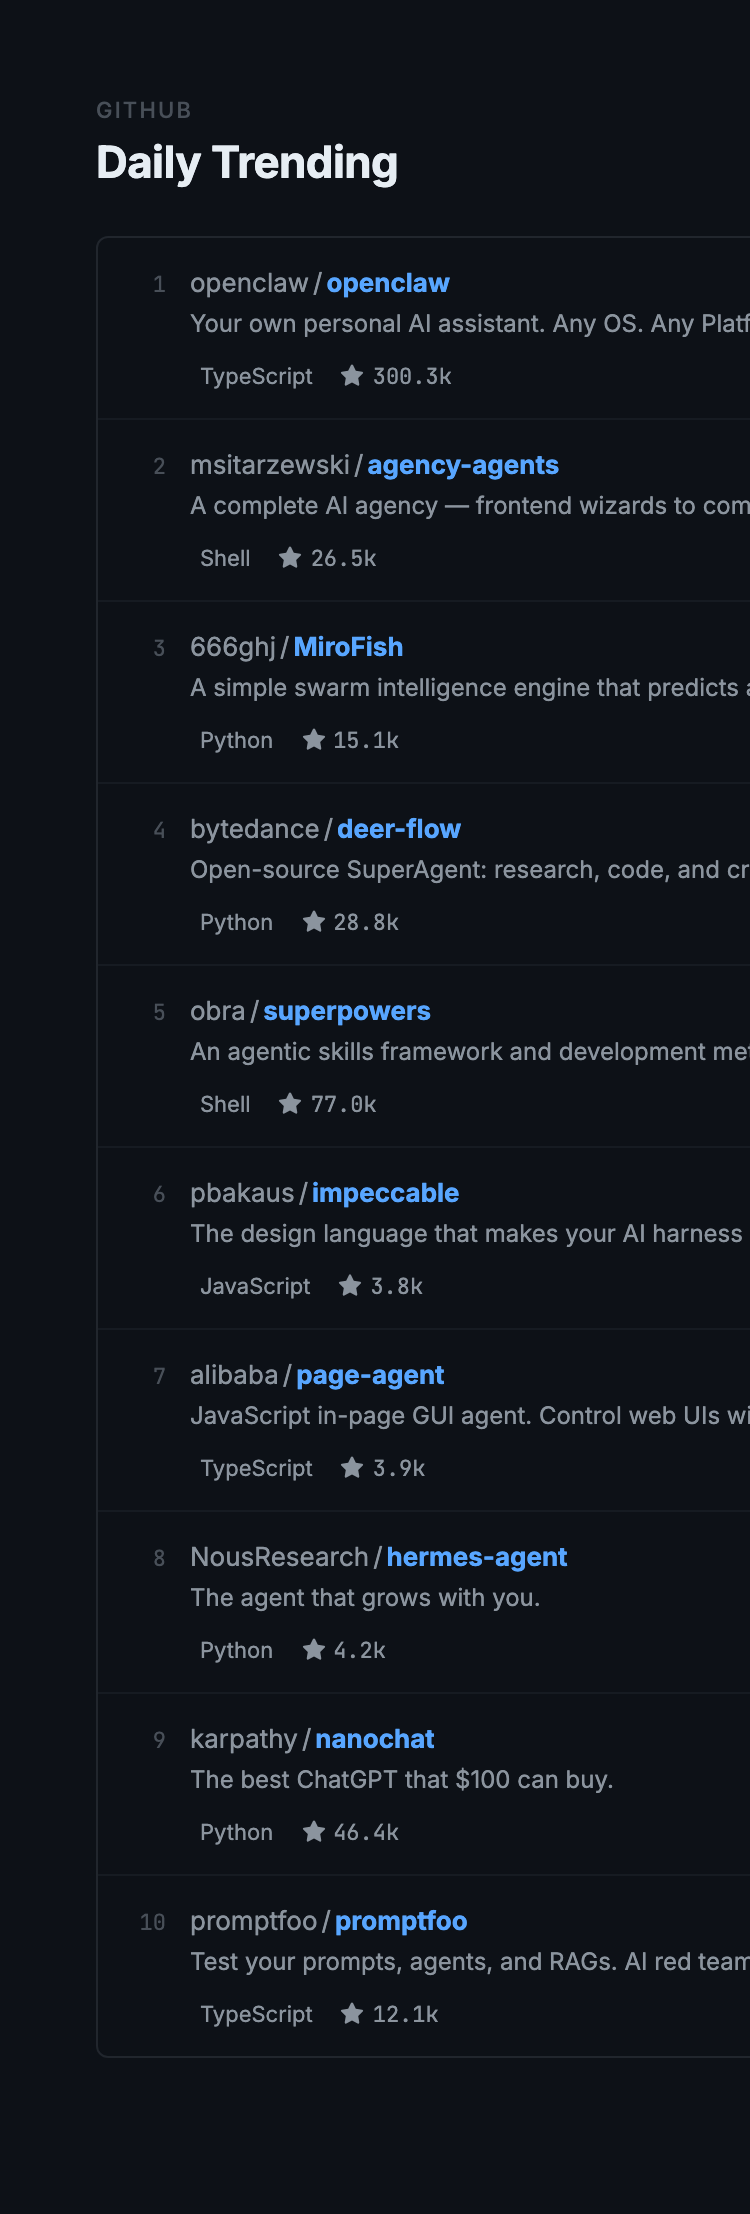
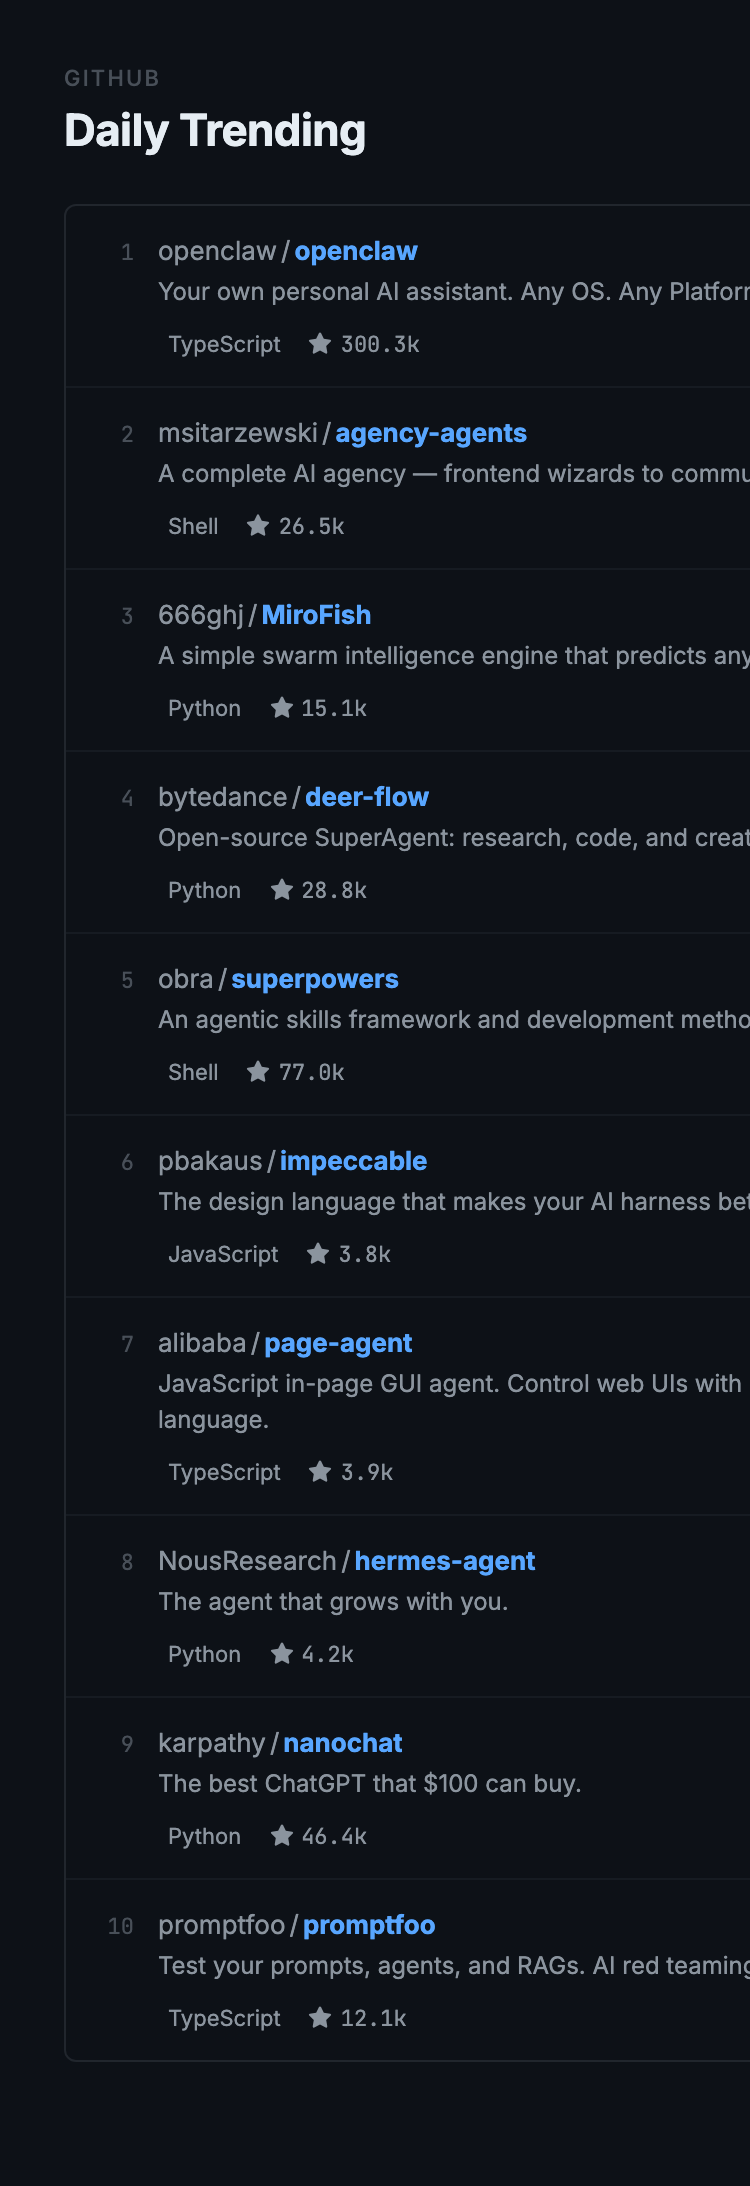
feat: add AI Daily Digest template, resize github-trending, refresh Demo layout

diff --git a/templates/daily-digest.html b/templates/daily-digest.html
@@ -1,0 +1,105 @@
+<!DOCTYPE html>
+<html lang="en">
+<head>
+  <meta charset="UTF-8">
+  <meta name="viewport" content="width=device-width, initial-scale=1.0">
+  <title>AI Daily Digest</title>
+  <link rel="preconnect" href="https://fonts.googleapis.com">
+  <link rel="preconnect" href="https://fonts.gstatic.com" crossorigin>
+  <link href="https://fonts.googleapis.com/css2?family=Inter:ital,wght@0,300;0,400;0,500;0,600;0,700;1,400&display=swap" rel="stylesheet">
+  <script defer src="https://cdn.jsdelivr.net/npm/alpinejs@3.x.x/dist/cdn.min.js"></script>
+  <style>
+    * { font-family: 'Inter', system-ui, sans-serif; box-sizing: border-box; margin: 0; padding: 0; }
+    body { margin: 0; padding: 0; background: transparent; }
+    #app { display: inline-block; }
+  </style>
+</head>
+<body>
+
+<div x-data="{
+  date: 'April 3, 2026',
+  category: 'AI & Technology',
+  headline: 'Agents Are Taking Over the Dev Stack',
+  summary: 'A wave of autonomous coding agents shipped this week — from cloud IDEs to terminal-native tools — signaling a fundamental shift in how software gets written.',
+  insights: [
+    { color: '#58a6ff', label: 'Trend',   text: 'Agent-native IDEs now outpace plugin-based tools in GitHub star velocity for the third consecutive month.' },
+    { color: '#3fb950', label: 'Signal',  text: 'Model context windows hit 2M tokens; retrieval-augmented workflows are quietly becoming obsolete.' },
+    { color: '#d2a8ff', label: 'Opinion', text: 'The real moat is not the model — it is the feedback loop. Whoever closes it fastest wins.' }
+  ],
+  tags: ['OpenAI', 'Claude', 'Cursor', 'Open Source'],
+  readMin: 4
+}" id="app">
+
+  <div style="width:520px; background:linear-gradient(160deg,#0d1117 0%,#0d1117 100%); border:1px solid #21262d; border-radius:16px; overflow:hidden; position:relative;">
+
+    <!-- Top accent bar -->
+    <div style="height:3px; background:linear-gradient(90deg,#58a6ff 0%,#3fb950 50%,#d2a8ff 100%);"></div>
+
+    <div style="padding:28px 28px 24px;">
+
+      <!-- Header row -->
+      <div style="display:flex; align-items:center; justify-content:space-between; margin-bottom:20px;">
+        <div style="display:flex; align-items:center; gap:8px;">
+          <!-- AI spark icon -->
+          <svg width="16" height="16" viewBox="0 0 24 24" fill="none" stroke="#58a6ff" stroke-width="1.8" stroke-linecap="round" stroke-linejoin="round">
+            <path d="M12 2L9.5 9.5 2 12l7.5 2.5L12 22l2.5-7.5L22 12l-7.5-2.5z"/>
+          </svg>
+          <span style="font-size:11px; font-weight:700; color:#58a6ff; letter-spacing:0.12em; text-transform:uppercase;">AI Daily Digest</span>
+        </div>
+        <div style="display:flex; align-items:center; gap:10px;">
+          <span style="font-size:11px; color:#484f58;" x-text="readMin + ' min read'"></span>
+          <span style="font-size:11px; color:#484f58;" x-text="date"></span>
+        </div>
+      </div>
+
+      <!-- Category chip -->
+      <div style="display:inline-flex; align-items:center; background:rgba(88,166,255,0.1); border:1px solid rgba(88,166,255,0.2); border-radius:99px; padding:3px 10px; margin-bottom:14px;">
+        <span style="font-size:11px; font-weight:500; color:#58a6ff;" x-text="category"></span>
+      </div>
+
+      <!-- Headline -->
+      <div style="font-size:22px; font-weight:700; color:#e6edf3; line-height:1.3; letter-spacing:-0.3px; margin-bottom:12px;" x-text="headline"></div>
+
+      <!-- Summary -->
+      <div style="font-size:13px; color:#8b949e; line-height:1.7; margin-bottom:24px;" x-text="summary"></div>
+
+      <!-- Divider -->
+      <div style="height:1px; background:#21262d; margin-bottom:20px;"></div>
+
+      <!-- Key insights -->
+      <div style="font-size:11px; font-weight:600; color:#484f58; letter-spacing:0.1em; text-transform:uppercase; margin-bottom:14px;">Key Insights</div>
+      <div style="display:flex; flex-direction:column; gap:12px; margin-bottom:24px;">
+        <template x-for="(item, i) in insights" :key="i">
+          <div style="display:flex; gap:12px; align-items:flex-start;">
+            <!-- Dot + label -->
+            <div style="display:flex; align-items:center; gap:6px; flex-shrink:0; width:72px; padding-top:1px;">
+              <div style="width:6px; height:6px; border-radius:50%; flex-shrink:0;" :style="'background:' + item.color"></div>
+              <span style="font-size:11px; font-weight:600; letter-spacing:0.04em;" :style="'color:' + item.color" x-text="item.label"></span>
+            </div>
+            <div style="font-size:13px; color:#c9d1d9; line-height:1.6;" x-text="item.text"></div>
+          </div>
+        </template>
+      </div>
+
+      <!-- Footer: tags + generated badge -->
+      <div style="display:flex; align-items:center; justify-content:space-between; flex-wrap:wrap; gap:8px;">
+        <div style="display:flex; gap:6px; flex-wrap:wrap;">
+          <template x-for="tag in tags" :key="tag">
+            <span style="font-size:11px; font-weight:500; color:#8b949e; background:rgba(255,255,255,0.04); border:1px solid #30363d; border-radius:6px; padding:3px 8px;" x-text="tag"></span>
+          </template>
+        </div>
+        <div style="display:flex; align-items:center; gap:5px; opacity:0.5;">
+          <svg width="11" height="11" viewBox="0 0 24 24" fill="none" stroke="#8b949e" stroke-width="2" stroke-linecap="round" stroke-linejoin="round">
+            <path d="M12 2L9.5 9.5 2 12l7.5 2.5L12 22l2.5-7.5L22 12l-7.5-2.5z"/>
+          </svg>
+          <span style="font-size:10px; color:#8b949e; letter-spacing:0.06em;">GENERATED BY AI</span>
+        </div>
+      </div>
+
+    </div>
+  </div>
+
+</div>
+
+</body>
+</html>

diff --git a/templates/github-trending.html b/templates/github-trending.html
@@ -34,7 +34,7 @@
   ]
 }" id="app">
 
-  <div style="width:800px; background:#0d1117; padding:48px; box-sizing:border-box;">
+  <div style="width:520px; background:#0d1117; padding:32px; box-sizing:border-box;">
 
     <!-- Header -->
     <div style="margin-bottom:24px; display:flex; align-items:flex-end; justify-content:space-between;">

diff --git a/README.zh-CN.md b/README.zh-CN.md
@@ -32,15 +32,16 @@ AI agent 被困在纯文本里。`pixelmsg` 打破这一限制 —— 给 agent 
 
 <table>
 <tr>
-<td align="center"><img src="screenshots/zh/weather-default-mobile.png" width="200" /><br /><sub>天气卡片</sub></td>
-<td align="center"><img src="screenshots/zh/github-trending-default-mobile.png" width="200" /><br /><sub>GitHub 热榜</sub></td>
-<td align="center"><img src="screenshots/zh/todolist-default-mobile.png" width="200" /><br /><sub>待办清单</sub></td>
+<td align="center"><img src="screenshots/zh/weather-default-mobile.png" width="180" /><br /><sub>天气卡片</sub></td>
+<td align="center"><img src="screenshots/zh/todolist-default-mobile.png" width="180" /><br /><sub>待办清单</sub></td>
+<td align="center"><img src="screenshots/zh/daily-digest-default-560w.png" width="280" /><br /><sub>AI 每日简报</sub></td>
 </tr>
 </table>
 
 <table>
 <tr>
-<td align="center"><img src="screenshots/zh/github-stats-default-desktop.png" width="640" /><br /><sub>GitHub 统计 — 桌面端</sub></td>
+<td align="center"><img src="screenshots/zh/github-trending-default-560w.png" width="300" /><br /><sub>GitHub 热榜</sub></td>
+<td align="center"><img src="screenshots/zh/github-stats-default-desktop.png" width="460" /><br /><sub>GitHub 统计</sub></td>
 </tr>
 </table>
 
@@ -51,7 +52,7 @@ AI agent 被困在纯文本里。`pixelmsg` 打破这一限制 —— 给 agent 
 - **精准裁切** — 只截取 `#app` 元素，不截整页
 - **多种视口** — 移动端（375px）、平板（768px）、桌面端（1440px），或自定义
 - **Agent 就绪** — `render.sh` 输出绝对路径；兼容平台自动将其作为图片消息发送
-- **5 个生产级模板** — 天气、GitHub 热榜、GitHub 统计、待办清单等
+- **6 个生产级模板** — 天气、AI 每日简报、GitHub 热榜、GitHub 统计、待办清单等
 - **可组合** — 通过 URL 参数注入动态数据，无需修改 HTML
 
 ## 快速开始
@@ -79,6 +80,7 @@ npx playwright install chromium
 | `templates/github-trending.html` | GitHub 热榜 Top 10，含 star 数和语言 | 移动端 |
 | `templates/github-stats.html` | GitHub 用户主页 — 贡献、连续天数、置顶仓库 | 桌面端 |
 | `templates/todolist.html` | 分类待办清单，带进度概览 | 移动端 |
+| `templates/daily-digest.html` | AI 生成的每日简报 — 标题、洞察、标签 | 移动端 |
 
 所有模板均使用真实演示数据，无需构建即可渲染。用浏览器打开任意 `.html` 文件即可预览。
 

diff --git a/README.md b/README.md
@@ -32,15 +32,16 @@ Plain text works. Images stick.
 
 <table>
 <tr>
-<td align="center"><img src="screenshots/weather-default-mobile.png" width="200" /><br /><sub>Weather Card</sub></td>
-<td align="center"><img src="screenshots/github-trending-default-mobile.png" width="200" /><br /><sub>GitHub Trending</sub></td>
-<td align="center"><img src="screenshots/todolist-default-mobile.png" width="200" /><br /><sub>Todo List</sub></td>
+<td align="center"><img src="screenshots/weather-default-mobile.png" width="180" /><br /><sub>Weather Card</sub></td>
+<td align="center"><img src="screenshots/todolist-default-mobile.png" width="180" /><br /><sub>Todo List</sub></td>
+<td align="center"><img src="screenshots/daily-digest-default-560w.png" width="280" /><br /><sub>AI Daily Digest</sub></td>
 </tr>
 </table>
 
 <table>
 <tr>
-<td align="center"><img src="screenshots/github-stats-default-desktop.png" width="640" /><br /><sub>GitHub Stats — Desktop</sub></td>
+<td align="center"><img src="screenshots/github-trending-default-560w.png" width="300" /><br /><sub>GitHub Trending</sub></td>
+<td align="center"><img src="screenshots/github-stats-default-desktop.png" width="460" /><br /><sub>GitHub Stats</sub></td>
 </tr>
 </table>
 
@@ -51,7 +52,7 @@ Plain text works. Images stick.
 - **Precise cropping** — screenshots the `#app` element, not the whole page
 - **Multiple viewports** — mobile (375px), tablet (768px), desktop (1440px), or custom
 - **Agent-ready** — `render.sh` outputs an absolute path; compatible platforms send it as an image
-- **5 production templates** — weather, GitHub trending, GitHub stats, todo list, and more
+- **6 production templates** — weather, AI digest, GitHub trending, GitHub stats, todo list, and more
 - **Composable** — pass URL params to inject dynamic data without modifying HTML
 
 ## Quick Start
@@ -79,6 +80,7 @@ npx playwright install chromium
 | `templates/github-trending.html` | Top 10 GitHub Trending repos with stars and language | Mobile |
 | `templates/github-stats.html` | GitHub user profile — contributions, streaks, pinned repos | Desktop |
 | `templates/todolist.html` | Categorized todo list with progress overview | Mobile |
+| `templates/daily-digest.html` | AI-generated daily briefing — headline, insights, tags | Mobile |
 
 All templates use real demo data and render without a build step. Open any `.html` in a browser to preview.
 
